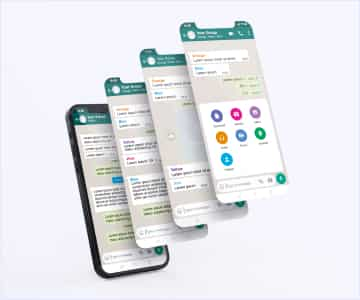
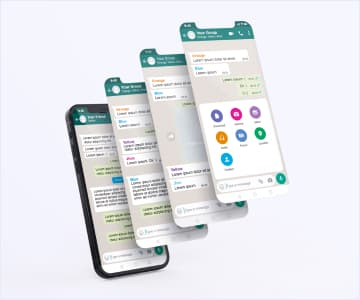
2x image added
also added problems with "What are we doing" img...

diff --git a/index.html b/index.html
@@ -244,13 +244,28 @@
           <h2 class="about-title">What are we doing</h2>
           <ul class="list about-list">
             <li class="about-item">
-              <img src="./images/desktop.jpg" alt="desktop" width="360" />
+              <img
+                srcset="./images/desktop.jpg 1x, ./images/desktop@2x.jpg 2x"
+                src="./images/desktop.jpg"
+                alt="desktop"
+                width="360"
+              />
             </li>
             <li class="about-item">
-              <img src="./images/chatbots.jpg" alt="chatbots" width="360" />
+              <img
+                srcset="./images/chatbots.jpg 1x, ./images/chatbots@2x.jpg 2x"
+                src="./images/chatbots.jpg"
+                alt="chatbots"
+                width="360"
+              />
             </li>
             <li class="about-item">
-              <img src="./images/mobile.jpg" alt="mobile" width="360" />
+              <img
+                srcset="./images/mobile.jpg 1x, ./images/mobile@2x.jpg 2x"
+                src="./images/mobile.jpg"
+                alt="mobile"
+                width="360"
+              />
             </li>
           </ul>
         </div>
@@ -262,6 +277,10 @@
           <ul class="list team-container-list">
             <li class="team-item-li">
               <img
+                srcset="
+                  ./images/markguerrero.jpg    1x,
+                  ./images/markguerrero@2x.jpg 2x
+                "
                 src="./images/markguerrero.jpg"
                 alt="Mark Guerrero"
                 width="264"
@@ -300,7 +319,12 @@
               </div>
             </li>
             <li class="team-item-li">
-              <img src="./images/tomford.jpg" alt="Tom Ford" width="264" />
+              <img
+                srcset="./images/tomford.jpg 1x, ./images/tomford@2x.jpg 2x"
+                src="./images/tomford.jpg"
+                alt="Tom Ford"
+                width="264"
+              />
               <div class="team-container-item">
                 <h3 class="team-title-name">Tom Ford</h3>
                 <p class="team-text">Frontend Developer</p>
@@ -336,6 +360,10 @@
             </li>
             <li class="team-item-li">
               <img
+                srcset="
+                  ./images/camilagarcia.jpg    1x,
+                  ./images/camilagarcia@2x.jpg 2x
+                "
                 src="./images/camilagarcia.jpg"
                 alt="Camila Garcia"
                 width="264"
@@ -375,6 +403,10 @@
             </li>
             <li class="team-item-li">
               <img
+                srcset="
+                  ./images/danielwilson.jpg    1x,
+                  ./images/danielwilson@2x.jpg 2x
+                "
                 src="./images/danielwilson.jpg"
                 alt="Daniel Wilson"
                 width="264"
